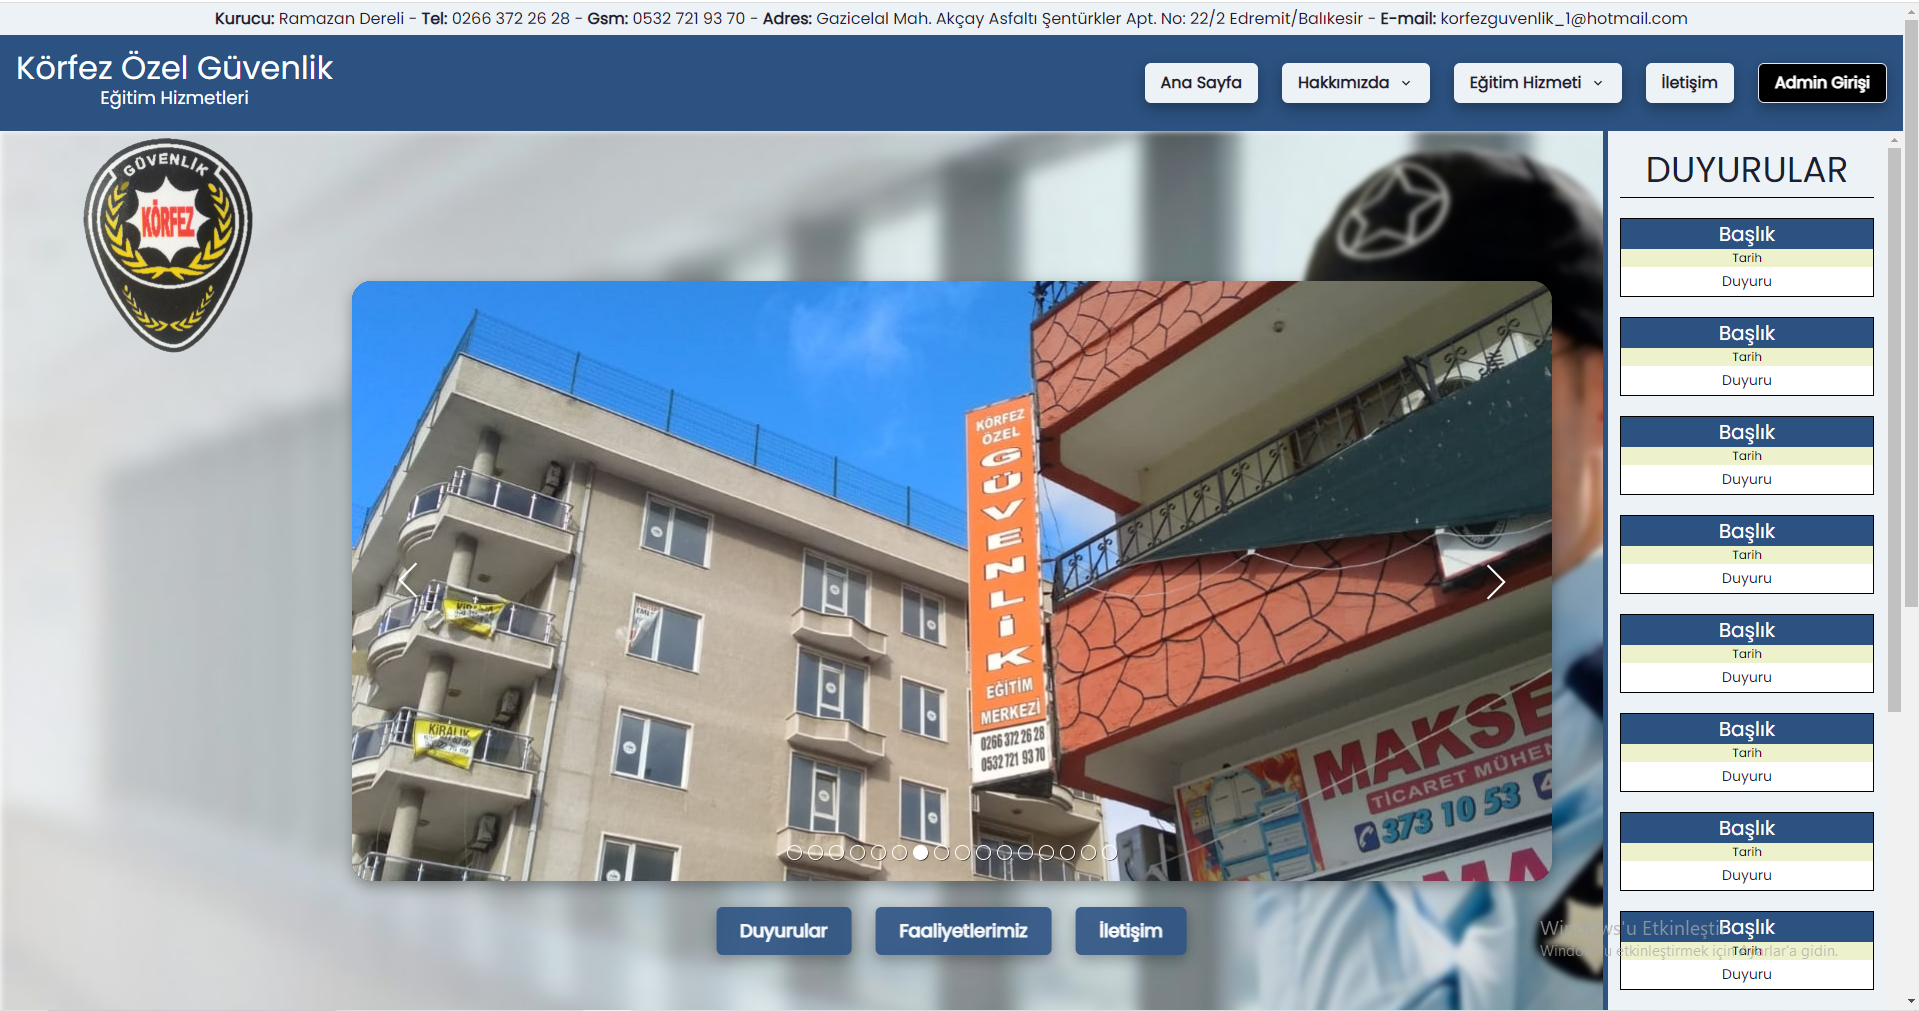
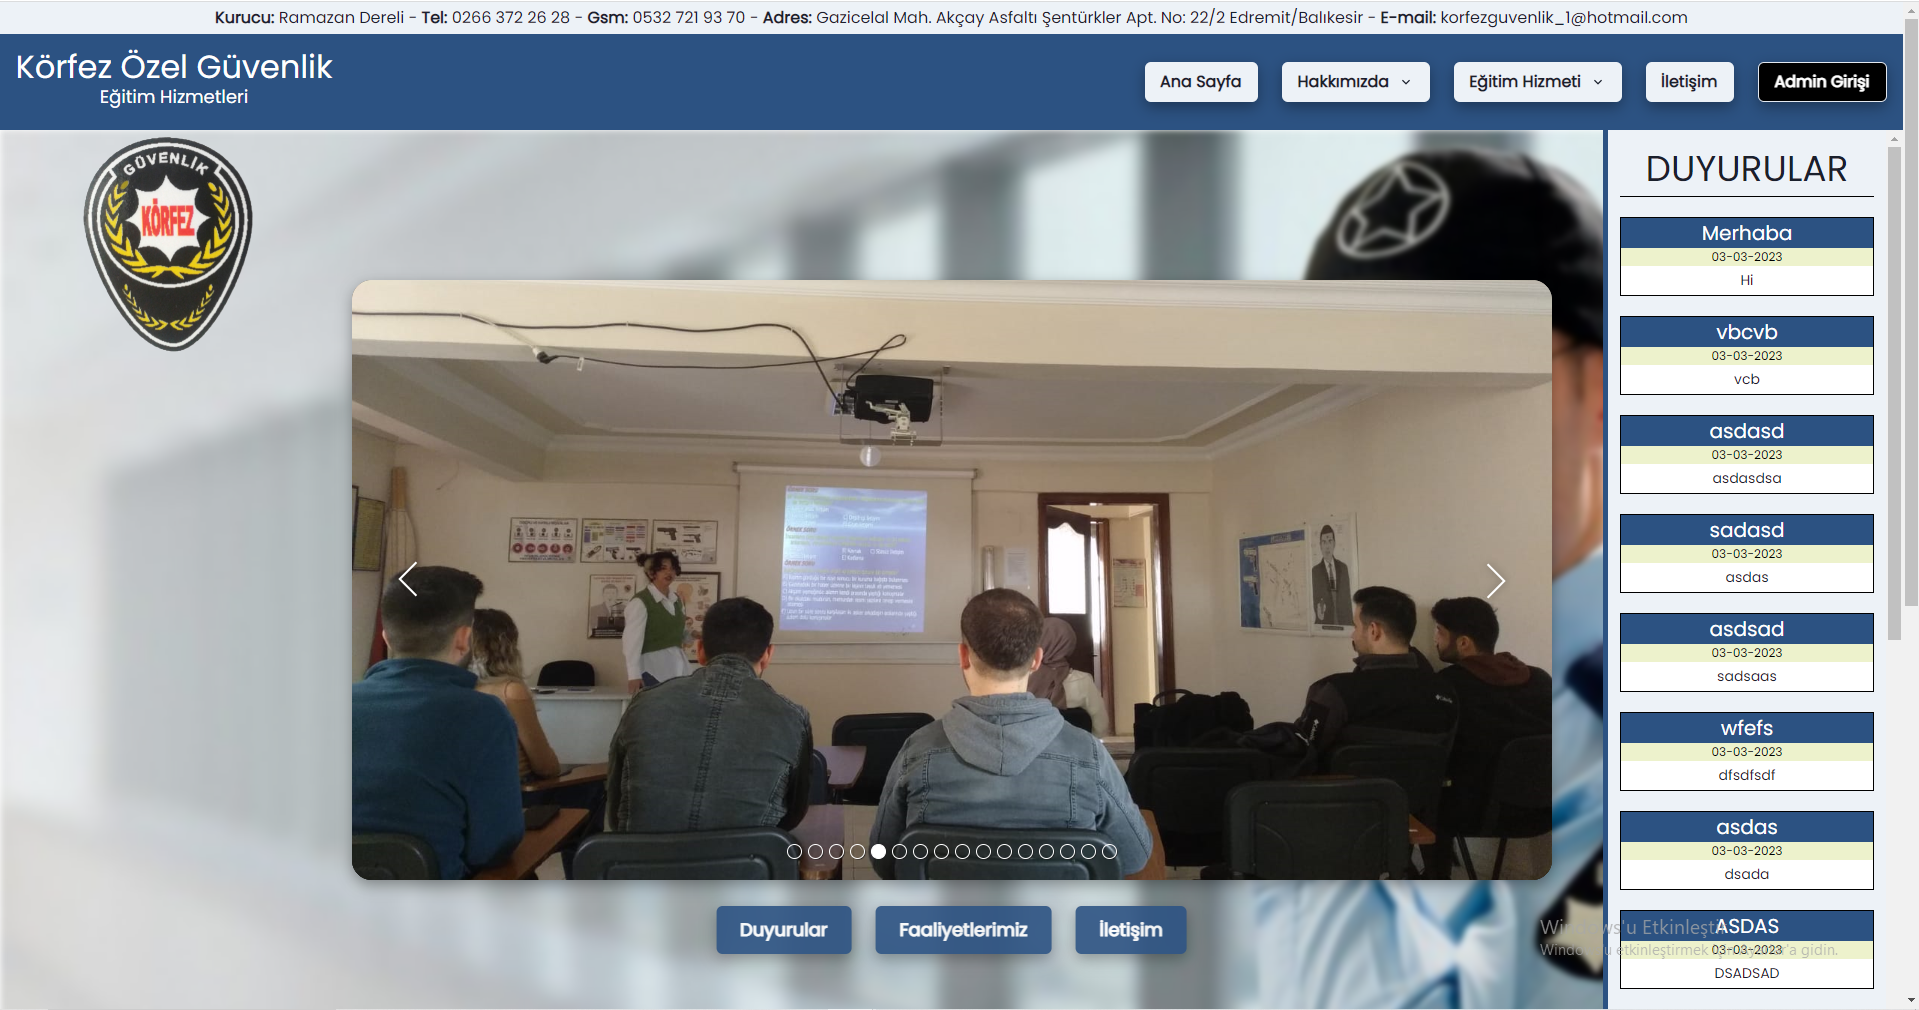
pulled data from database and displayed

diff --git a/README.md b/README.md
@@ -8,6 +8,8 @@ HTML - CSS - JS - React - Chakra UI Project
 
 ![kögimg](korfez.png)
 
+![kögimg](korfez2.png)
+
 ## Admin Panel
 
 I can't share admin panel codes because there may be some security problems.
